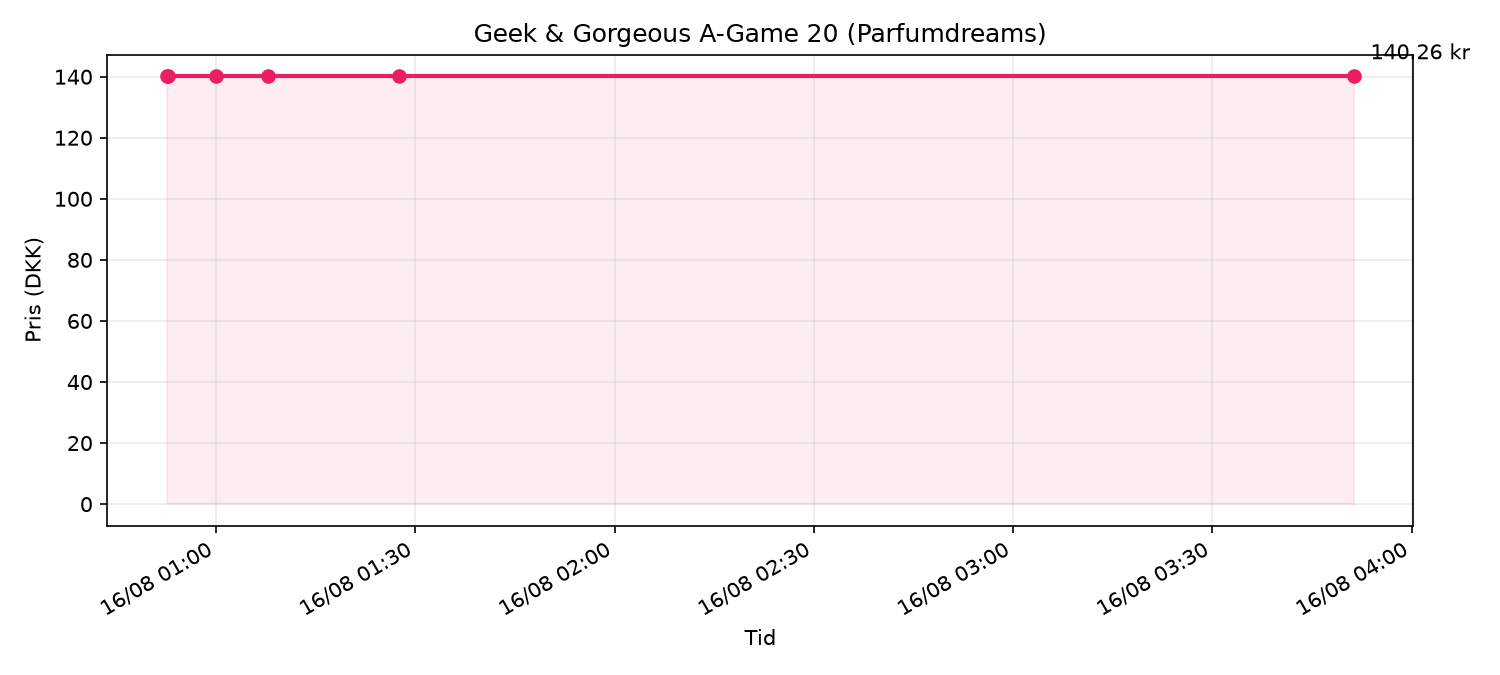
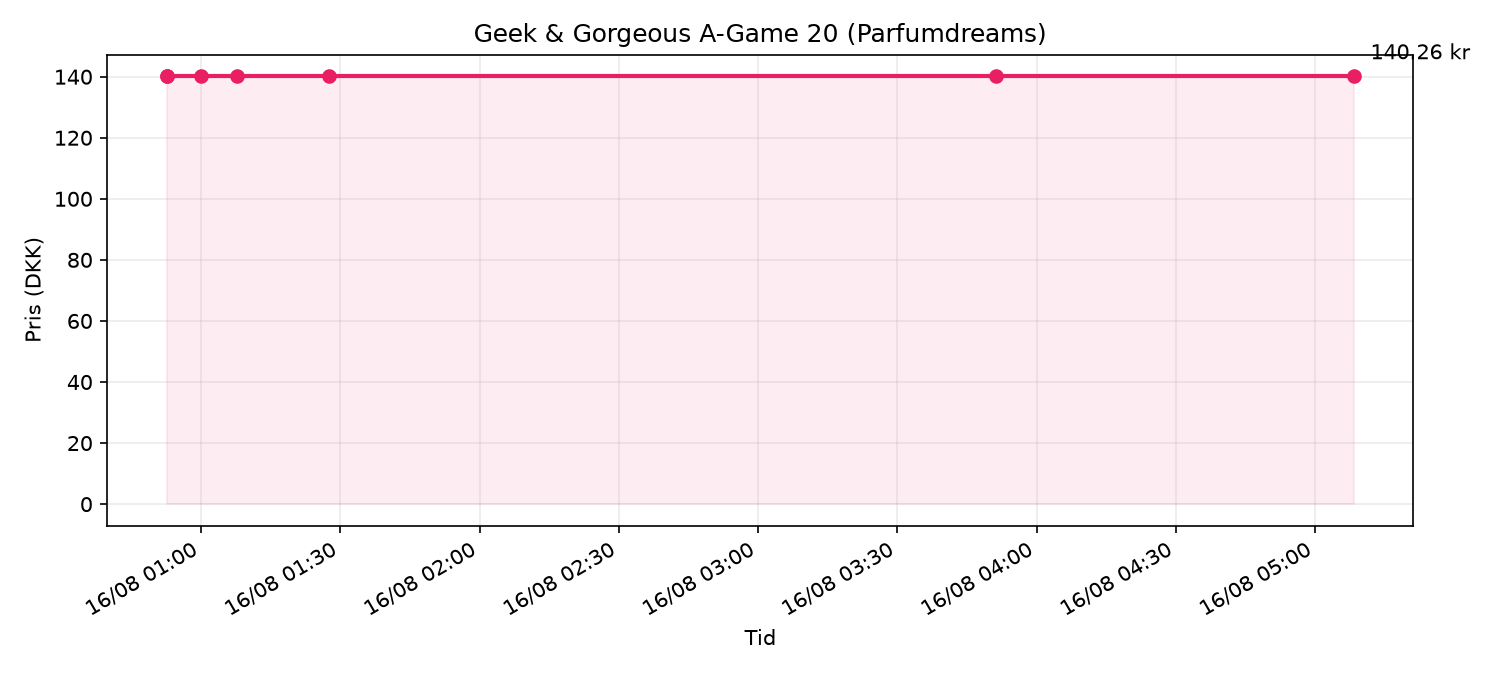
deploy: 495a7144476fe077bb52ac319aa0f8e47cd6cfc5

diff --git a/price_chart.html b/price_chart.html
@@ -13,7 +13,7 @@
 </head>
 <body>
   <h1>Geek & Gorgeous A-Game 20 (Parfumdreams)</h1>
-  <p class="meta">Senest tjekket: 16/08/2026 03:51 · Pris: <strong>140.26 kr</strong> · på lager</p>
+  <p class="meta">Senest tjekket: 16/08/2026 05:08 · Pris: <strong>140.26 kr</strong> · på lager</p>
   
   <p><a href="https://www.parfumdreams.dk/Geek-Gorgeous/Samlinger/101-aktive-stoffer/A-Game-20-Serum/index_137083.aspx?variation=221879">Åbn produkt på Parfumdreams</a></p>
   <img src="price_chart.png" alt="Prisgraf">
